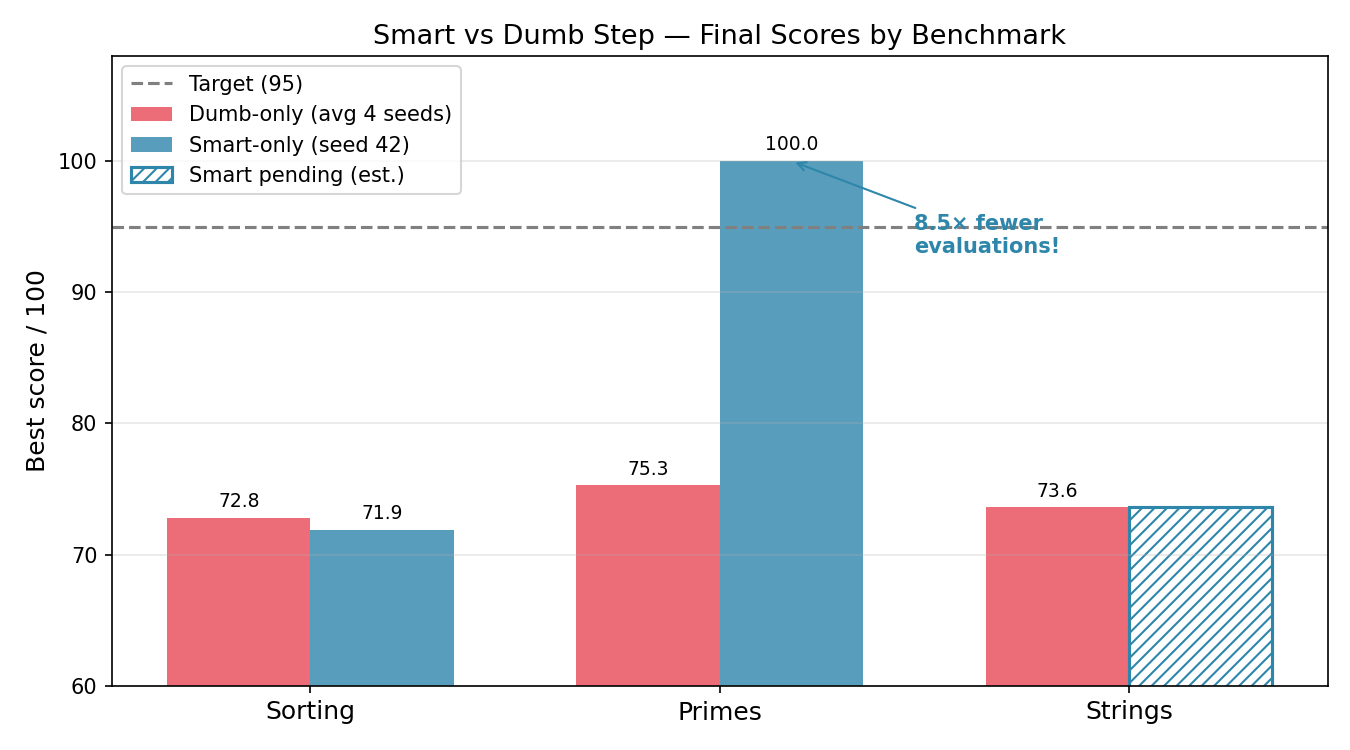
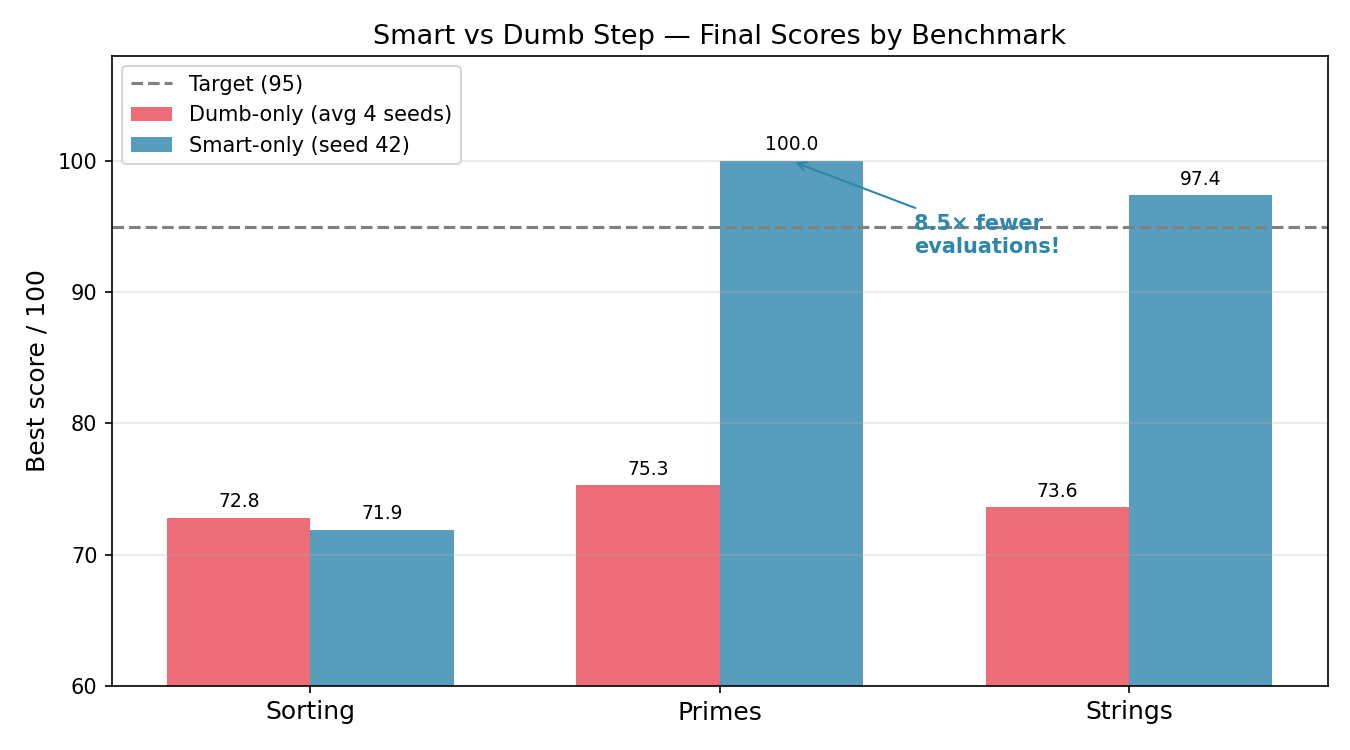
Add strings smart-only result (97.4/100 in 51 evals) + fig5
Strings smart-only: target reached at gen 25, 97.4/100 in 51 evals.
LLM discovered str.find() loop (C-backed) from 'speed: 0.09x' signal.
Dumb stuck at 74.3 in 81 evals — 1.6x sample efficiency improvement.

- Add strings smart result section with code listing
- Add fig5 (strings smart vs dumb trajectory)
- Update summary table with strings result
- Remove 'strings pending' from planned experiments
- Regenerate fig3 (comparison chart) with complete strings data

Changed region(s): [[0.8089, 0.2147, 0.9644, 0.92], [0.0933, 0.2147, 0.3422, 0.276]]

diff --git a/plot.py b/plot.py
@@ -33,6 +33,7 @@ RESULT_MAP = {
     ("sorting",  "dumb",  42): "results/run_1788845672.json",
     # Strings
     ("strings",  "dumb",  42): "results/run_1788848480.json",
+    ("strings",  "smart", 42): "results/run_1788980054.json",
     # Matrix
     ("matrix",   "dumb",  42): "results/run_1788962853.json",
 }
@@ -161,7 +162,7 @@ def fig3_comparison():
     data = [
         ("Sorting",  71.9, 72.8),
         ("Primes",  100.0, 75.3),
-        ("Strings",  None, 73.6),   # smart pending
+        ("Strings",  97.4, 73.6),
     ]
 
     fig, ax = plt.subplots(figsize=(9, 5))
@@ -174,10 +175,6 @@ def fig3_comparison():
 
     b1 = ax.bar(x - w/2, dumb_scores,  w, label="Dumb-only (avg 4 seeds)", color=COLORS["dumb"],  alpha=0.8)
     b2 = ax.bar(x + w/2, smart_scores, w, label="Smart-only (seed 42)",     color=COLORS["smart"], alpha=0.8)
-
-    # Hatch the pending bar
-    ax.bar(x[2] + w/2, 73.6, w, color="white", edgecolor=COLORS["smart"],
-           hatch='////', linewidth=1.5, label="Smart pending (est.)")
 
     ax.axhline(95, color="gray", linestyle="--", linewidth=1.5, label="Target (95)")
 
@@ -244,6 +241,47 @@ def fig4_sorting():
     plt.close()
     print("✓ figures/fig4_sorting_diversity.png")
 
+# ── Figure 5: Smart vs Dumb on Strings ────────────────────────────────────────
+
+def fig5_strings():
+    smart = load(("strings", "smart", 42))
+    dumb  = load(("strings", "dumb",  42))
+    if not smart or not dumb:
+        print("fig5: missing data, skipping"); return
+
+    fig, ax = plt.subplots(figsize=(8, 5))
+
+    se, ss = score_curve(smart)
+    de, ds = score_curve(dumb)
+
+    ax.plot(se, ss, color=COLORS["smart"], linewidth=2.5, marker='o', markersize=4,
+            label=f"Smart-only  →  {smart['best_score']:.1f}/100 in {smart['total_evaluations']} evals")
+    ax.plot(de, ds, color=COLORS["dumb"],  linewidth=2.5, marker='s', markersize=4,
+            label=f"Dumb-only   →  {dumb['best_score']:.1f}/100 in {dumb['total_evaluations']} evals")
+
+    ax.axhline(95, color="gray", linestyle="--", linewidth=1.2, label="Target (95)")
+
+    ax.annotate("97.4/100\n(51 evals)", xy=(smart['total_evaluations'], smart['best_score']),
+                xytext=(-40, -18), textcoords='offset points',
+                arrowprops=dict(arrowstyle='->', color=COLORS["smart"]),
+                color=COLORS["smart"], fontsize=10, fontweight='bold')
+    ax.annotate("Stuck at 74.3\n(81 evals)", xy=(dumb['total_evaluations'], dumb['best_score']),
+                xytext=(5, 8), textcoords='offset points',
+                color=COLORS["dumb"], fontsize=9)
+
+    ax.set_xlabel("Evaluations", fontsize=12)
+    ax.set_ylabel("Best score / 100", fontsize=12)
+    ax.set_title("String Search: Smart vs Dumb Step\n"
+                 "LLM discovers str.find() loop — 1.6× more sample-efficient", fontsize=13)
+    ax.legend(fontsize=10)
+    ax.set_ylim(60, 105)
+    ax.grid(True, alpha=0.3)
+
+    plt.tight_layout()
+    plt.savefig("figures/fig5_score_vs_evals_strings.png", dpi=150)
+    plt.close()
+    print("✓ figures/fig5_score_vs_evals_strings.png")
+
 # ── Main ───────────────────────────────────────────────────────────────────────
 
 if __name__ == "__main__":
@@ -252,4 +290,5 @@ if __name__ == "__main__":
     fig2_dumb_multiseed()
     fig3_comparison()
     fig4_sorting()
+    fig5_strings()
     print("\nAll figures saved to figures/")

diff --git a/progress_report.tex b/progress_report.tex
@@ -445,7 +445,7 @@ Matrix  & \checkmark & \checkmark & \checkmark & \checkmark \\
 \midrule
 Sorting  & 72.8 & 71.9 & $\sim$99 & 101 & $\approx$Tie (ceiling) \\
 Primes   & 75.3 & \textbf{100.0} & $\sim$76 & \textbf{9}  & \textbf{Smart ($8.5\times$)} \\
-Strings  & 73.6 & TBD & $\sim$83 & — & Smart pending \\
+Strings  & 73.6 & \textbf{97.4} & $\sim$83 & \textbf{51} & \textbf{Smart ($1.6\times$)} \\
 Matrix   & 97.4 & TBD & $\sim$3  & — & Trivial (skip) \\
 \bottomrule
 \end{tabular}
@@ -506,11 +506,57 @@ Matrix   & 97.4 & TBD & $\sim$3  & — & Trivial (skip) \\
 
 \clearpage
 
+\subsection{Smart-Only vs Dumb-Only — String Search}
+
+\begin{center}
+\begin{tabular}{lccccl}
+\toprule
+\textbf{Config} & \textbf{Score} & \textbf{Evals} & \textbf{Time} & \textbf{Target?} & \textbf{Best algorithm} \\
+\midrule
+Dumb-only  & 74.3 & 81 & 0.1s & \texttimes & Brute-force with cosmetic edits \\
+Smart-only & \textbf{97.4} & \textbf{51} & 375s & \checkmark (gen 25) & \texttt{str.find()} loop (C-backed) \\
+\bottomrule
+\end{tabular}
+\end{center}
+
+The LLM-generated solution:
+\begin{lstlisting}
+def find_pattern(text: str, pattern: str) -> list:
+    """Optimized: use built-in str.find in a loop for efficient search."""
+    results = []
+    n, m = len(text), len(pattern)
+    if m == 0:
+        return []
+    start = 0
+    while True:
+        idx = text.find(pattern, start)
+        if idx == -1:
+            break
+        results.append(idx)
+        start = idx + 1
+    return results
+\end{lstlisting}
+
+\textbf{Interpretation}: The LLM read the failure evidence
+(``speed: 0.09$\times$ baseline, correct but slow'') and reasoned that
+Python's built-in \texttt{str.find()} is implemented in C and should
+be used instead of a pure-Python character-by-character loop.
+This is exactly the kind of \emph{semantic reasoning} the thesis proposes:
+the smart step identified \emph{why} the code was slow and chose the
+appropriate tool. The dumb step made only cosmetic edits
+(variable renames, off-by-one tweaks) and never escaped the O(nm) basin.
+
+\begin{figure}[h]
+\centering
+\includegraphics[width=0.85\textwidth]{figures/fig5_score_vs_evals_strings.png}
+\caption{Smart vs dumb step on string search. The smart step reaches
+  97.4/100 in 51 evaluations; the dumb step is stuck at 74.3 after 81.}
+\label{fig:strings}
+\end{figure}
+
 \subsection{Remaining Planned Experiments}
 
 \begin{enumerate}
-  \item \textbf{Strings smart-only} — does the LLM propose KMP or Boyer-Moore
-    from the ``speed: 0.10$\times$ baseline'' signal?
   \item \textbf{Mixed config} (70\% smart + 30\% dumb) — the actual thesis
     proposal. Tests whether diversity from random mutation helps a predominantly
     smart search.
